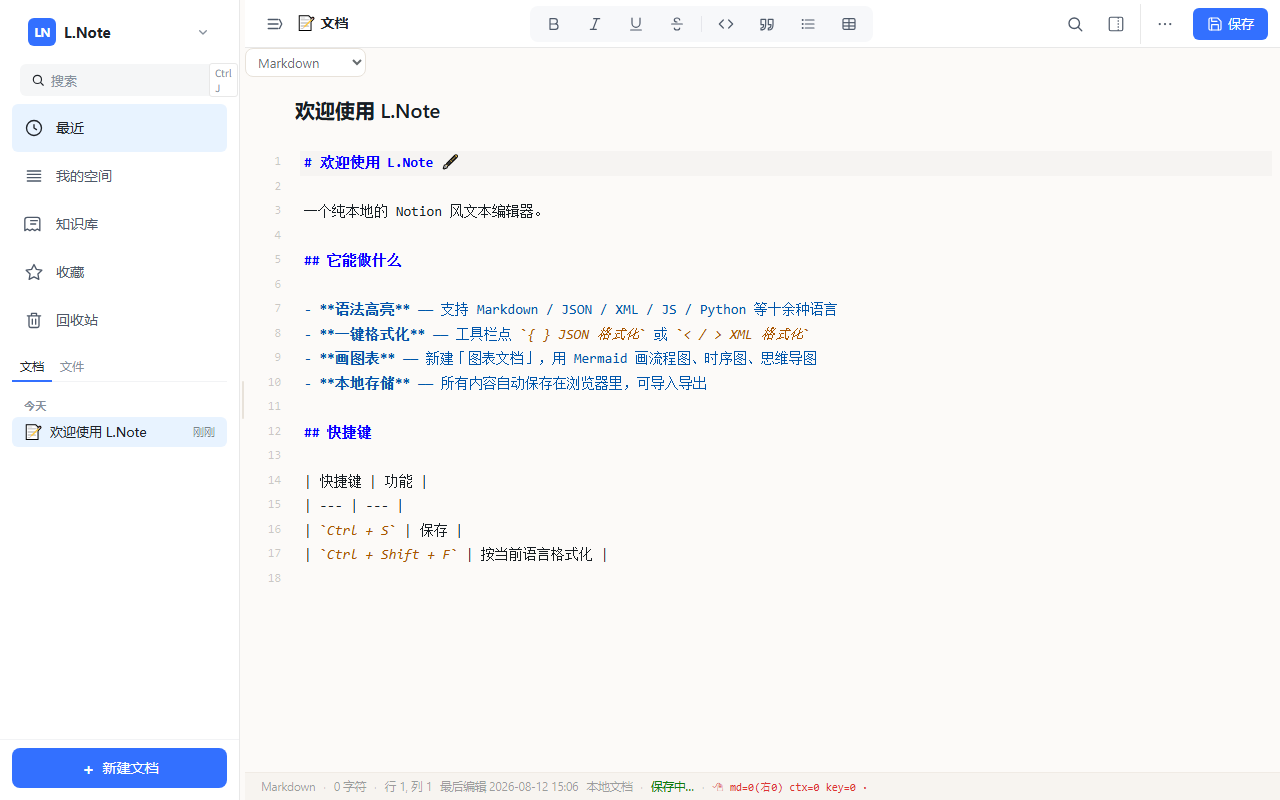
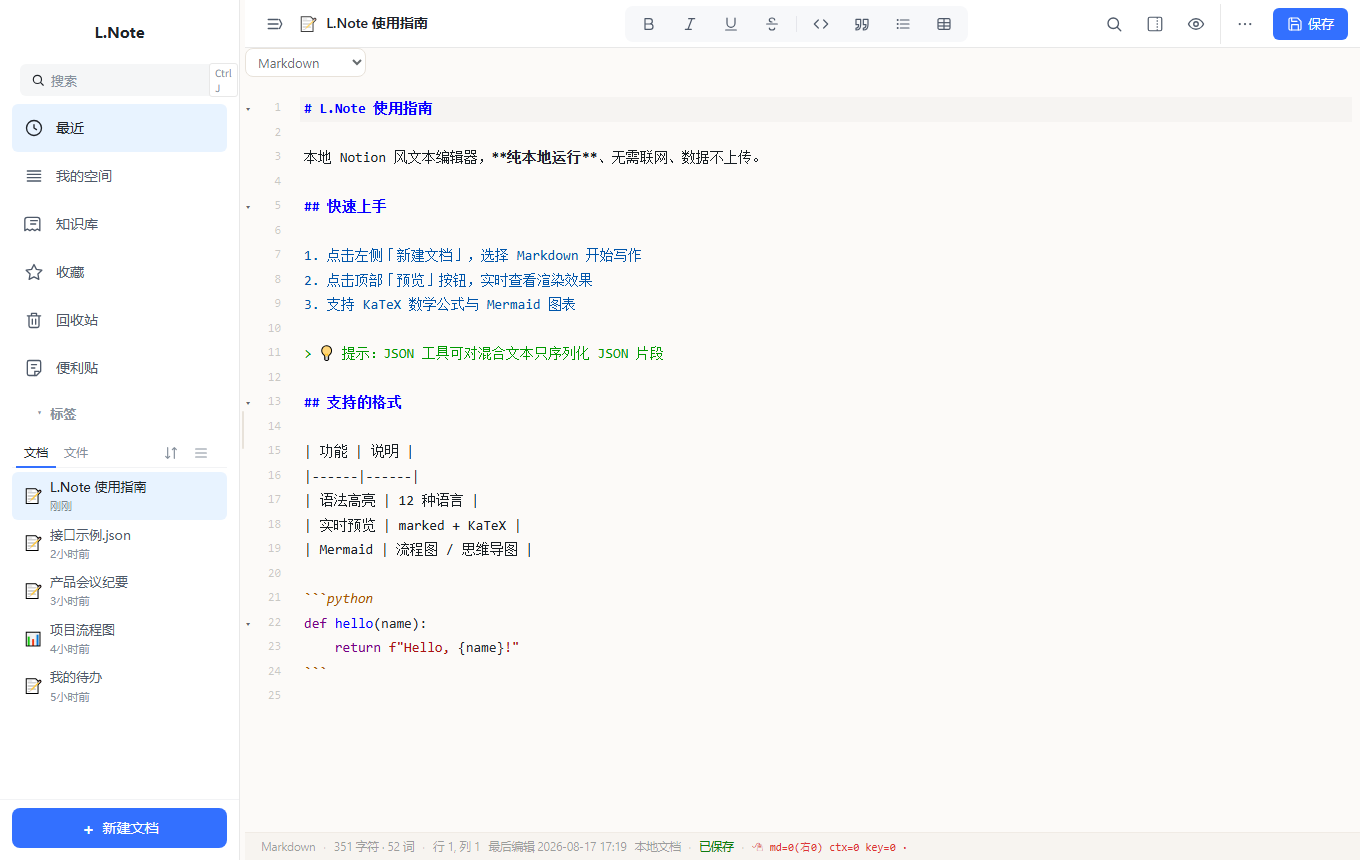
site: 重新截取 6 张真实功能界面图（主界面/预览/JSON/查找/富文档/批量管理）

diff --git a/release/download.html b/release/download.html
@@ -235,8 +235,28 @@
         <div class="zoom-hint">点击图片可放大查看</div>
       </figure>
       <figure>
-        <img src="screenshots/sidebar.png" alt="L.Note 飞书式侧栏">
-        <figcaption>飞书式侧栏 · 最近 / 我的空间 / 知识库</figcaption>
+        <img src="screenshots/preview.png" alt="Markdown 实时预览">
+        <figcaption>Markdown 实时预览 · 所见即所得</figcaption>
+        <div class="zoom-hint">点击图片可放大查看</div>
+      </figure>
+      <figure>
+        <img src="screenshots/json.png" alt="JSON 编辑器">
+        <figcaption>JSON 编辑器 · 语法高亮与格式化</figcaption>
+        <div class="zoom-hint">点击图片可放大查看</div>
+      </figure>
+      <figure>
+        <img src="screenshots/find.png" alt="查找替换弹窗">
+        <figcaption>查找 / 替换 · 正则与全文档高亮</figcaption>
+        <div class="zoom-hint">点击图片可放大查看</div>
+      </figure>
+      <figure>
+        <img src="screenshots/rich.png" alt="富文档思维笔记">
+        <figcaption>富文档（思维笔记）· 块编辑器</figcaption>
+        <div class="zoom-hint">点击图片可放大查看</div>
+      </figure>
+      <figure>
+        <img src="screenshots/batch.png" alt="批量管理模式">
+        <figcaption>批量管理 · 多选与批量操作</figcaption>
         <div class="zoom-hint">点击图片可放大查看</div>
       </figure>
     </div>

diff --git a/site/download.html b/site/download.html
@@ -235,8 +235,28 @@
         <div class="zoom-hint">点击图片可放大查看</div>
       </figure>
       <figure>
-        <img src="screenshots/sidebar.png" alt="L.Note 飞书式侧栏">
-        <figcaption>飞书式侧栏 · 最近 / 我的空间 / 知识库</figcaption>
+        <img src="screenshots/preview.png" alt="Markdown 实时预览">
+        <figcaption>Markdown 实时预览 · 所见即所得</figcaption>
+        <div class="zoom-hint">点击图片可放大查看</div>
+      </figure>
+      <figure>
+        <img src="screenshots/json.png" alt="JSON 编辑器">
+        <figcaption>JSON 编辑器 · 语法高亮与格式化</figcaption>
+        <div class="zoom-hint">点击图片可放大查看</div>
+      </figure>
+      <figure>
+        <img src="screenshots/find.png" alt="查找替换弹窗">
+        <figcaption>查找 / 替换 · 正则与全文档高亮</figcaption>
+        <div class="zoom-hint">点击图片可放大查看</div>
+      </figure>
+      <figure>
+        <img src="screenshots/rich.png" alt="富文档思维笔记">
+        <figcaption>富文档（思维笔记）· 块编辑器</figcaption>
+        <div class="zoom-hint">点击图片可放大查看</div>
+      </figure>
+      <figure>
+        <img src="screenshots/batch.png" alt="批量管理模式">
+        <figcaption>批量管理 · 多选与批量操作</figcaption>
         <div class="zoom-hint">点击图片可放大查看</div>
       </figure>
     </div>
